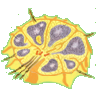
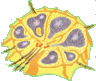
art and menu
cropped art to decrease collision radius (no more empty pixels on every
side, they still collide as rectangles though)

added a pulsing red animation to the menu

diff --git a/game/states/menu.js b/game/states/menu.js
@@ -1,6 +1,12 @@
 function Menu() {
     this.menuWbc;
     this.menuHiv;
+    this.menuBloodPulse;
+    this.menuBpAlpha;
+    this.menuBpAlphaStart = 0;
+    this.menuBpAlphaEnd;
+    this.jumpStart = null;
+    this.tickityTock = 0;
 }
 Menu.prototype = {    
   preload: function() {},
@@ -13,6 +19,13 @@ Menu.prototype = {
     menuHiv = this.game.add.sprite(this.game.world.centerX/2,this.game.world.centerY/2, 'menu-hiv');
     menuHiv.anchor.setTo(0.5,0.5);
     menuHiv.scale.setTo(3, 3);
+      
+    menuBloodPulse = this.game.add.sprite(this.game.world.centerX/2,this.game.world.centerY/2, 'rBackground');
+    menuBloodPulse.anchor.setTo(0.5,0.5);
+    menuBloodPulse.scale.setTo(3, 3);
+    menuBloodPulse.alpha = 0;
+    menuBpAlpha = 0;
+    menuBpAlphaEnd = 0;
       
     var style = { font: '65px Arial', fill: '#ffffff', align: 'center'};
     this.sprite = this.game.add.sprite(this.game.world.centerX, 150, 'HIV-virus');
@@ -29,7 +42,38 @@ Menu.prototype = {
     if(this.game.input.activePointer.justPressed()) {
       this.game.state.start('play');
     }
+    _jump = hiv_game.game.time.elapsedSince(this.jumpStart)
+    if( (this.tickityTock + 5000) - _jump <= 0 ) {
+      // start pulse
+      menuBpAlphaStart = 1;
+      // complete within 1000 ticks
+      // revert within 1000 ticks
+      // prep for next pulse
+      this.tickityTock = _jump;
+    }
+    if(menuBpAlphaStart == 1 && menuBpAlpha <= 1){
+      menuBpAlpha += 0.01;
+      menuBloodPulse.alpha = menuBpAlpha;
+      if(menuBpAlpha >= 1){
+          console.log(menuBpAlpha + " " + menuBloodPulse.alpha);
+          menuBpAlphaStart = 0;
+          menuBpAlphaEnd = 1;
+      }
+    }
+    if(menuBpAlphaEnd == 1 && menuBpAlpha >= 0){
+      menuBpAlpha -= 0.01;
+      menuBloodPulse.alpha = menuBpAlpha;
+      if(menuBpAlpha <= 0){
+          menuBpAlphaStart = 1;
+          menuBpAlphaEnd = 0;
+      }
+    }
+    if(menuBpAlphaEnd == 1){
+      
+    }
+    
     menuHiv.angle += 0.1;
     menuWbc.angle += 0.2;
+    menuBloodPulse.angle += 0.5;
   }
 };

diff --git a/game/states/play.js b/game/states/play.js
@@ -79,10 +79,9 @@ Play.prototype = {
       console.log("Exception: " + e.message);
     }
 
-    hiv_game.gBackground1.angle += 0.1;
-    hiv_game.gBackground2.angle += 0.2;
-    hiv_game.rBackground1.angle += 0.1;
-    hiv_game.rBackground2.angle += 0.2;  
+    this.backgroundRotate();
+    this.backgroundColorChanger();
+    
   },
   createControlPoint: function(type, x, y) {
     var cPoint = new ControlPoint();
@@ -117,5 +116,21 @@ Play.prototype = {
         hiv_game.randomNum(1, hiv_game.game.height)
       )
     );
+  },
+  backgroundRotate: function() {
+    hiv_game.gBackground1.angle += 0.1;
+    hiv_game.gBackground2.angle += 0.2;
+    hiv_game.rBackground1.angle += 0.1;
+    hiv_game.rBackground2.angle += 0.2;  
+  },
+  backgroundColorChanger: function() {
+    for(var i; i < hiv_game.controlPoints.length; i++){
+      if(hiv_game.controlPoints[i].owner == "hiv"){
+        hiv_game.gBackground2.alpha += 0.001;
+        hiv_game.gBackground2.alpha += 0.002;
+        hiv_game.rBackground1.alpha -= 0.001;
+        hiv_game.rBackground2.alpha -= 0.001;
+      }
+    }
   }
 };

diff --git a/game/Medicine.js b/game/Medicine.js
@@ -1,7 +1,7 @@
-Medecine = function() {
+Medicinecine = function() {
   this.sprite = null;
 };
-Medecine.prototype = {
+Medicine.prototype = {
   create: function () {
   }
 };
